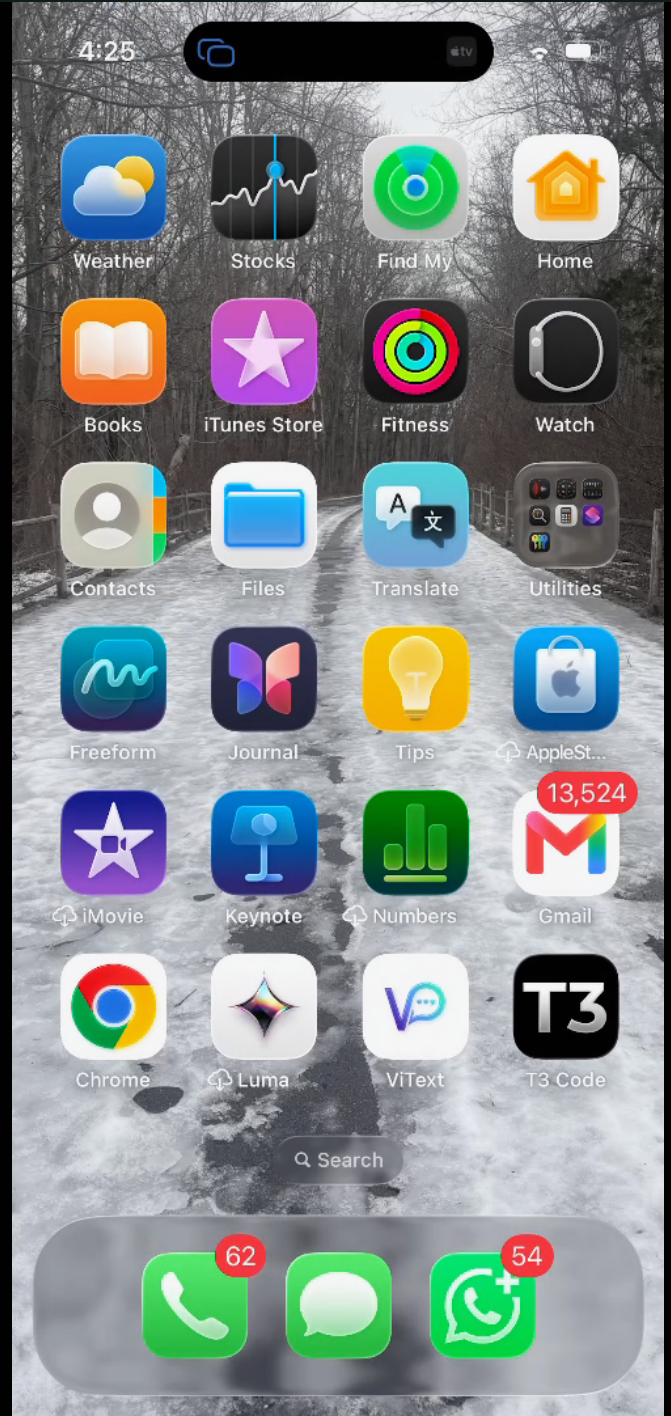
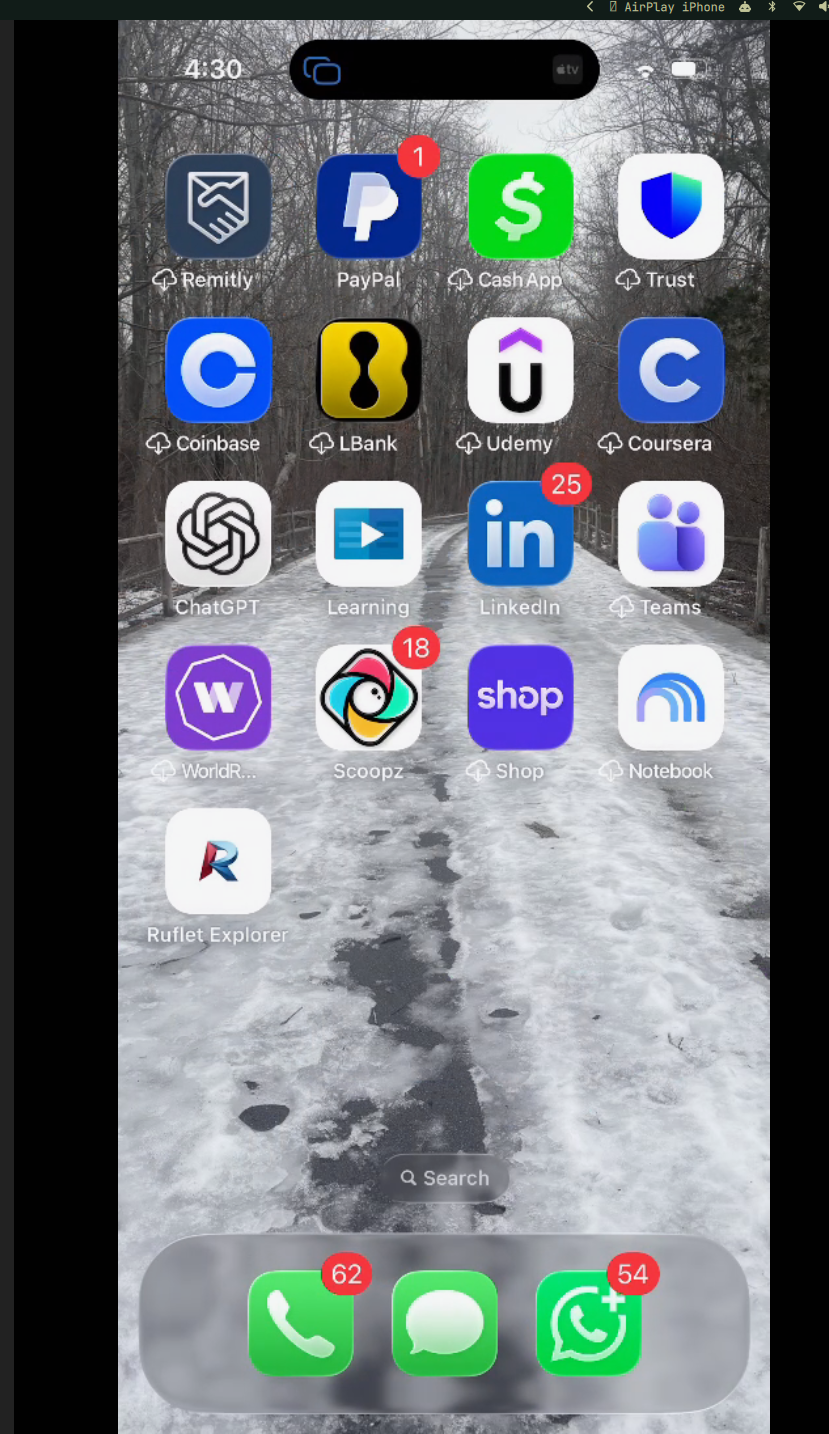
docs: showcase connected phone sessions

diff --git a/README.md b/README.md
@@ -8,7 +8,17 @@ mirroring from an Omarchy bar widget and panel.
   <img src="preview.png" alt="Android and iPhone mirrored side by side with Omarchy Phone" width="92%">
 </p>
 
-The preview shows live Android and iPhone sessions opened from Omarchy Phone.
+The preview shows live Android and iPhone sessions running side by side from Omarchy Phone.
+
+## App menu
+
+<p align="center">
+  <img src="docs/images/app-menu-full.png" alt="Omarchy Phone menu with Android and iPhone connected" width="47%">
+  <img src="docs/images/app-menu-connected.png" alt="Omarchy Phone connected-device controls" width="47%">
+</p>
+
+Connected Android and iPhone devices appear automatically in one menu. The available actions and
+capabilities are shown per device, including Android control and iPhone AirPlay status.
 
 ## Android preview
 
@@ -26,7 +36,7 @@ input from Omarchy control the Android device directly.
   <img src="docs/images/iphone-airplay.png" alt="iPhone mirrored over AirPlay with Omarchy Phone" width="47%">
 </p>
 
-The iPhone session is mirrored over AirPlay. Apple does not permit AirPlay receivers to send
+This is a live iPhone session mirrored over AirPlay. Apple does not permit AirPlay receivers to send
 touch or keyboard input back to iOS, so iPhone sessions are view-only.
 
 ## Install
